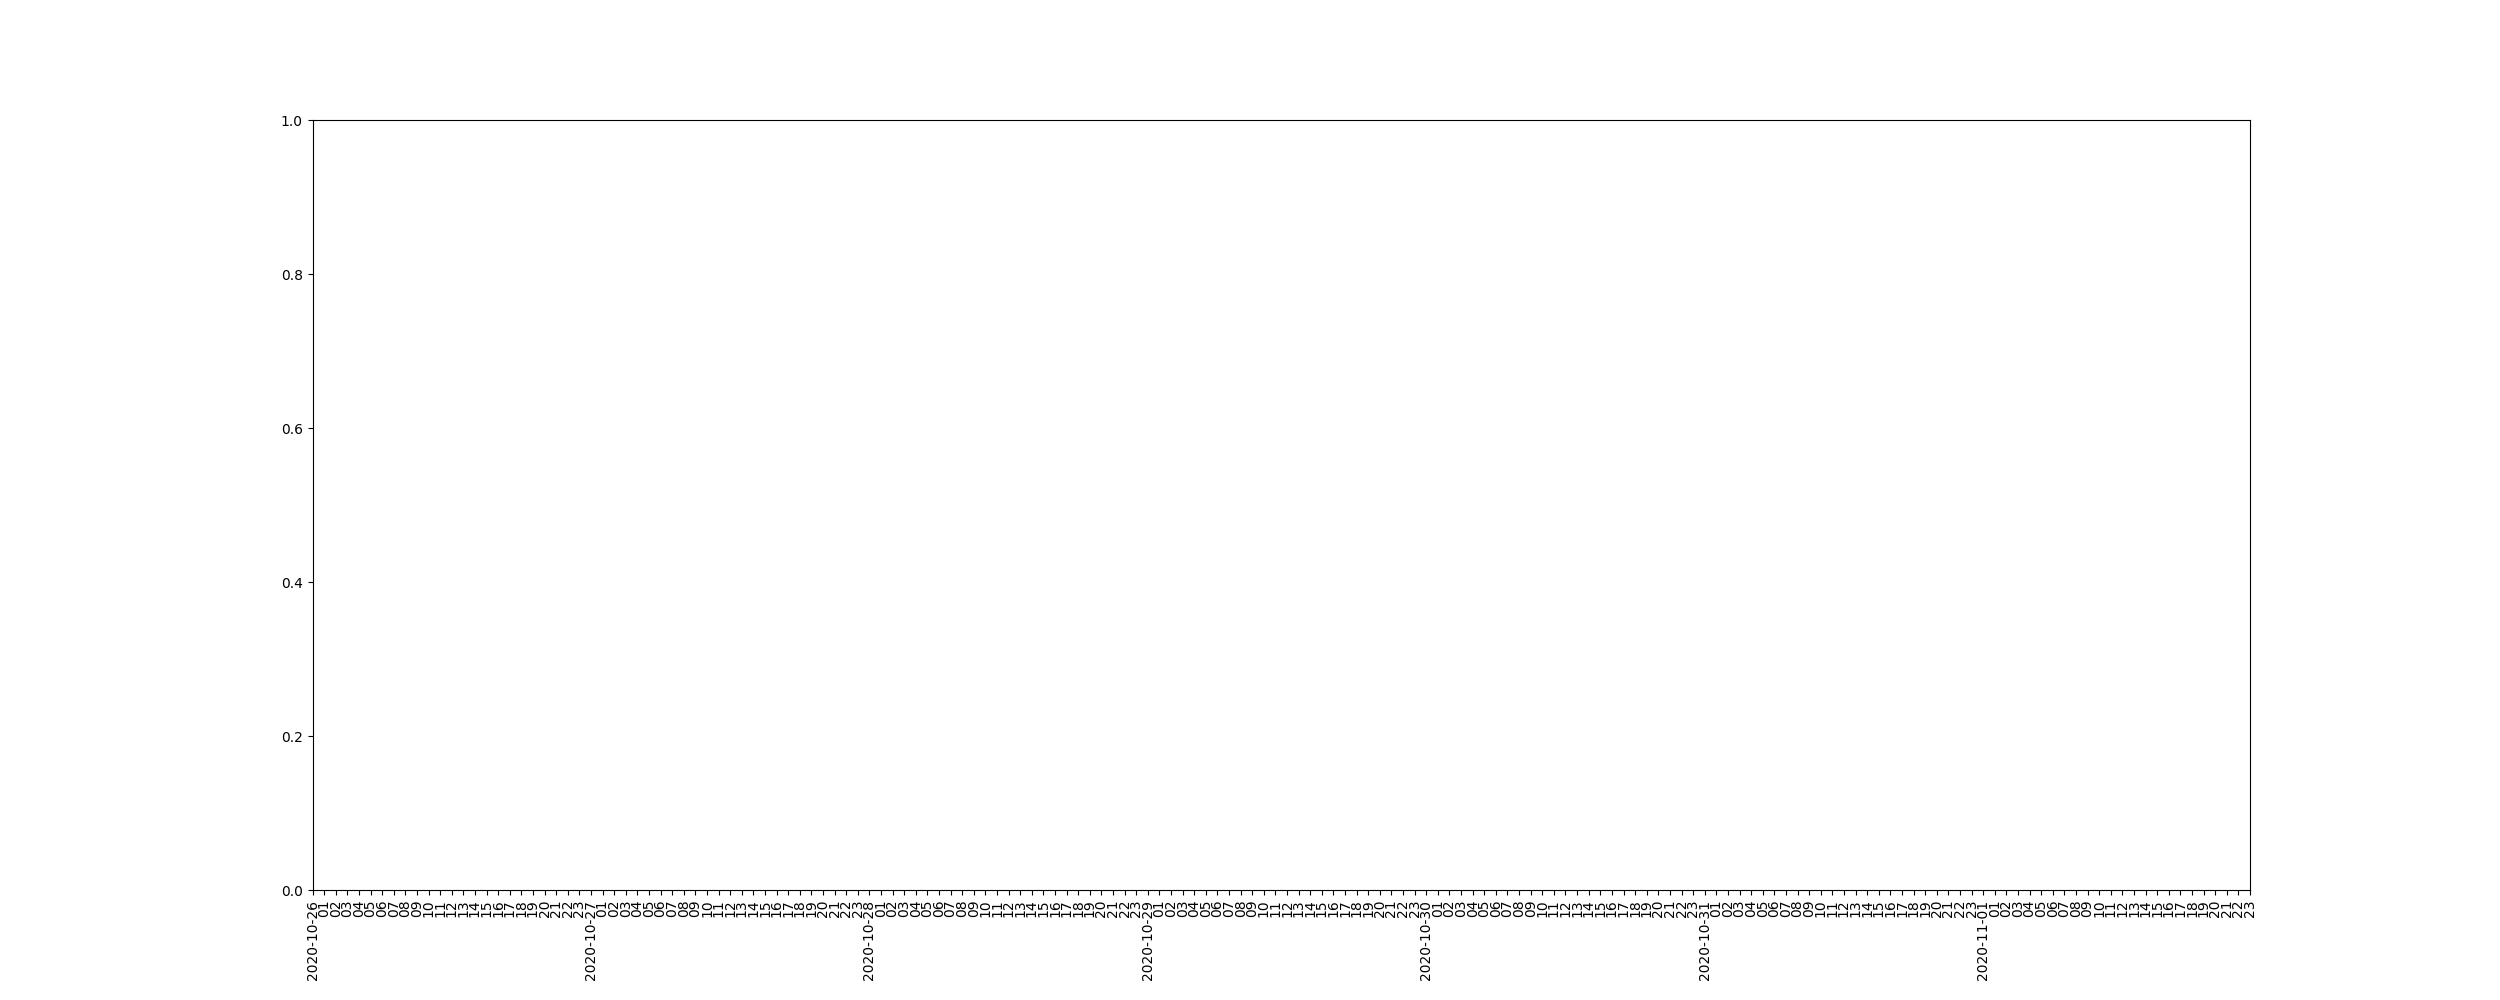
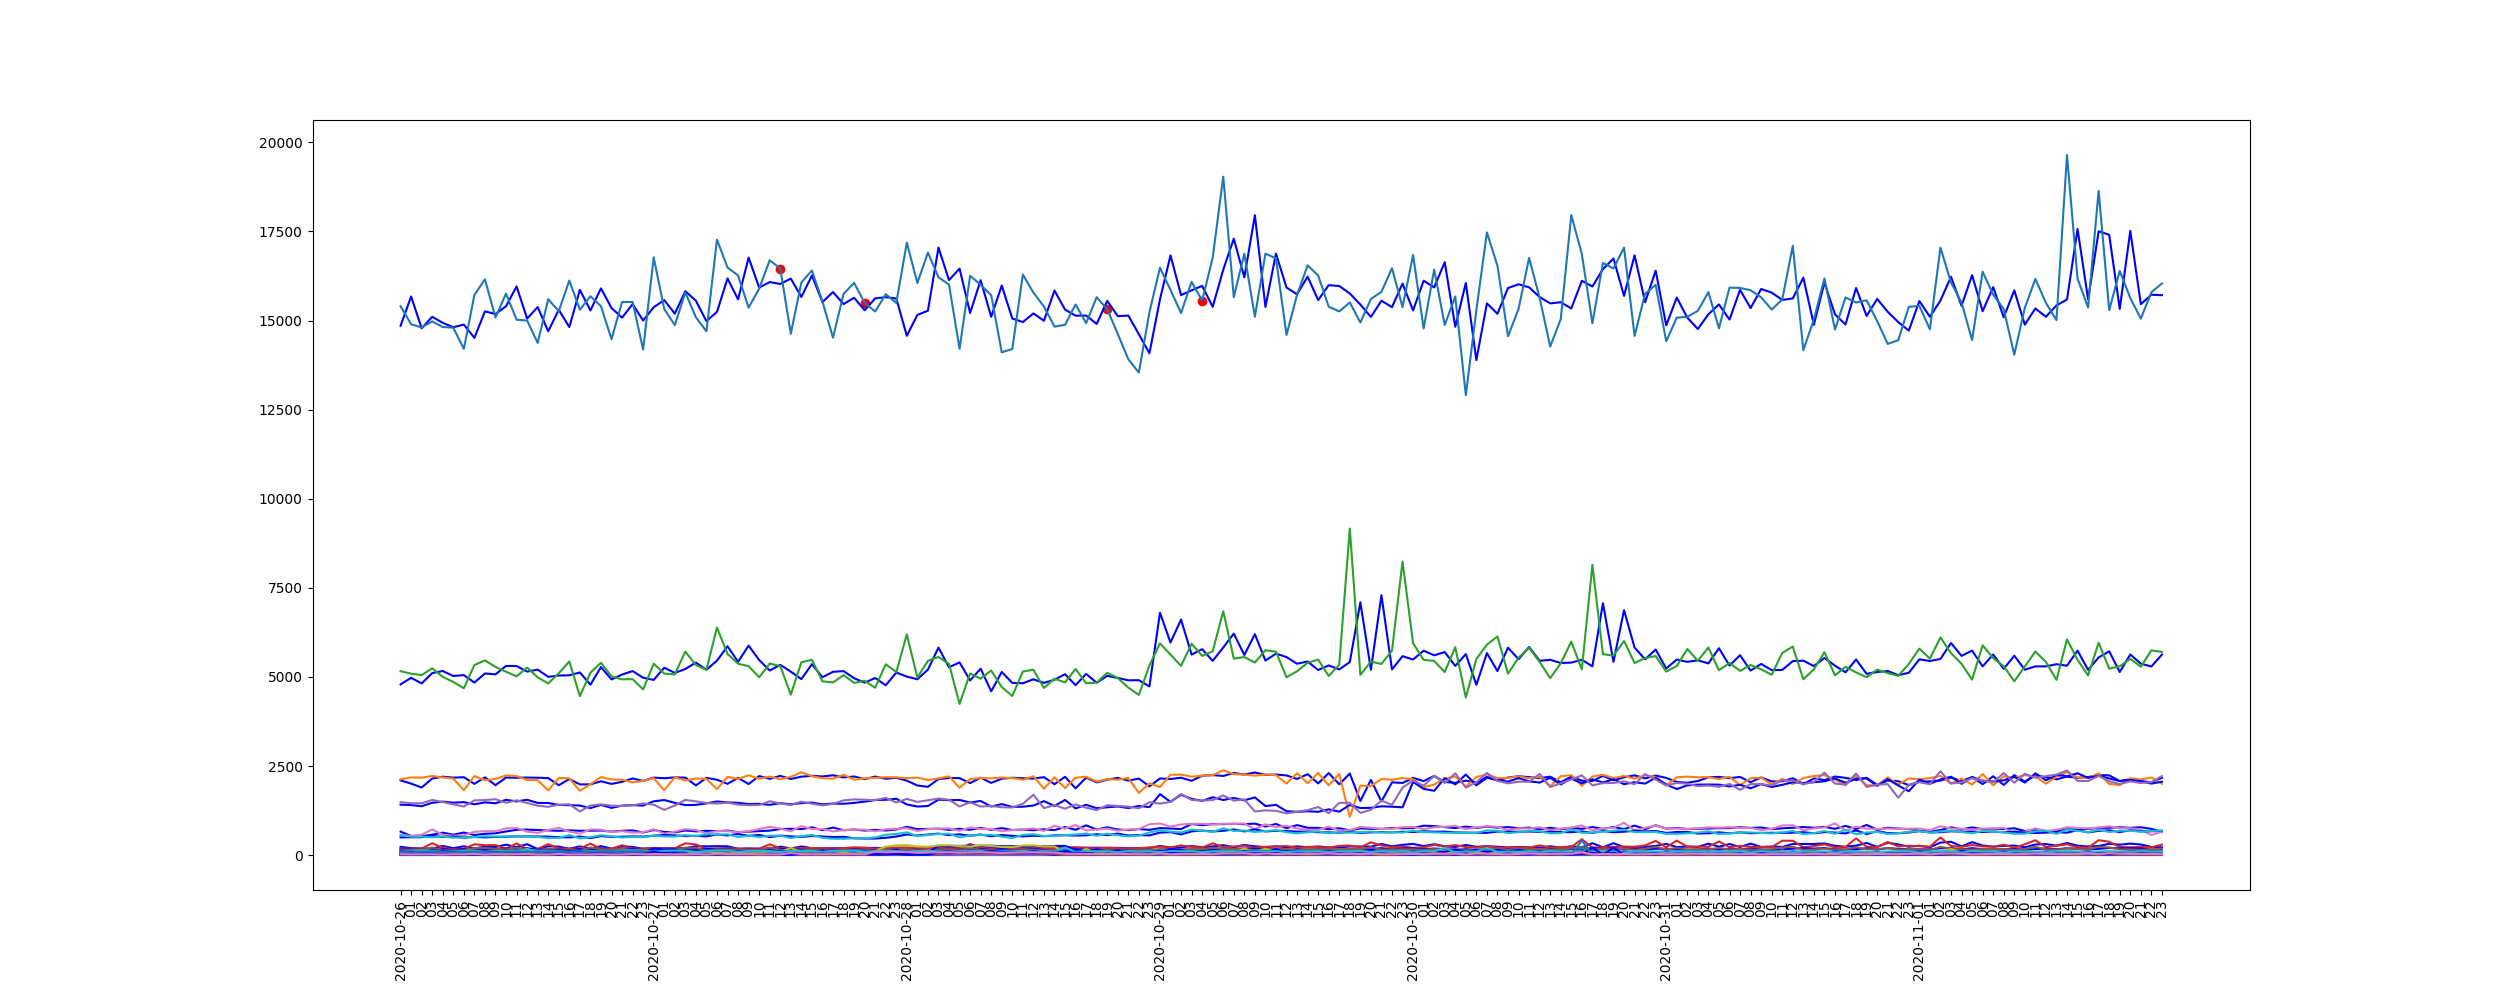
added graphs

diff --git a/phase3_scripts/fw_model/fw_monitoring_graph.py b/phase3_scripts/fw_model/fw_monitoring_graph.py
@@ -90,7 +90,7 @@ if origin in fw_comp_model:
         reference = values["ref"]
         observed = values["obs"]
         alarm_values = []
-        if observed == len(date_list):
+        if len(observed) == len(date_list):
             if "alarms" in values:
                 for index in values["alarms"]:
                     alarm_values.append(observed[index])
